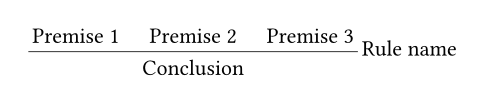
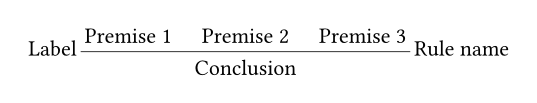
Add labels
Labels are similar to names, but displayed on the left of the bar instead of the right.

Changed region(s): [[0.0309, 0.2621, 0.9588, 0.5534], [0.2784, 0.5825, 0.5567, 0.7282], [0.2474, 0.2621, 0.2784, 0.2913]]

diff --git a/README.md b/README.md
@@ -14,10 +14,11 @@ You can import the latest version of this package with:
 
 ## Basic usage
 
-To display a proof tree, you first need to create a tree, using the `rule` function. Its first argument is the conclusion, and the other positional arguments are the premises. It also accepts a `name` for the rule name.
+To display a proof tree, you first need to create a tree, using the `rule` function. Its first argument is the conclusion, and the other positional arguments are the premises. It also accepts a `name` for the rule name, displayed on the right of the bar, as well as a `label`, displayed on the left of the bar.
 
 ```typ
 #let tree = rule(
+  label: [Label],
   name: [Rule name],
   [Conclusion],
   [Premise 1],
@@ -131,7 +132,7 @@ The `proof-tree` function accepts multiple named arguments that let you customiz
   <dd>The minimum amount of space between two premises.</dd>
 
   <dt><code>title-inset</code></dt>
-  <dd>The amount width with which to extend the horizontal bar beyond the content. Also determines how far from the bar the rule name is displayed.</dd>
+  <dd>The amount width with which to extend the horizontal bar beyond the content. Also determines how far from the bar labels and names are displayed.</dd>
 
   <dt><code>stroke</code></dt>
   <dd>The stroke to use for the horizontal bars.</dd>
